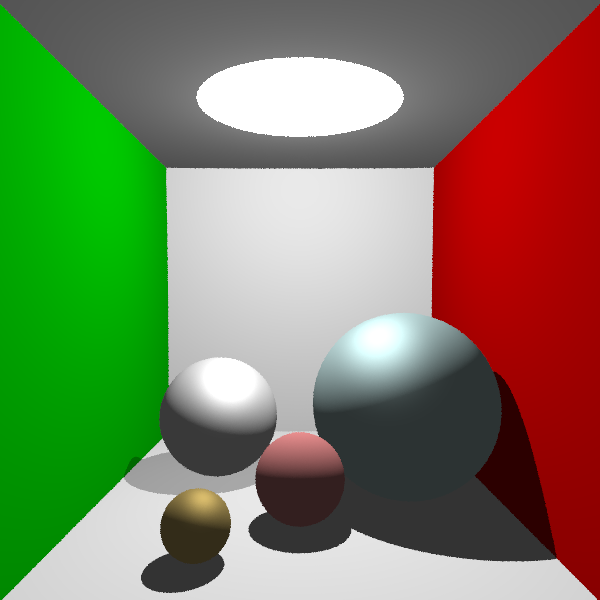
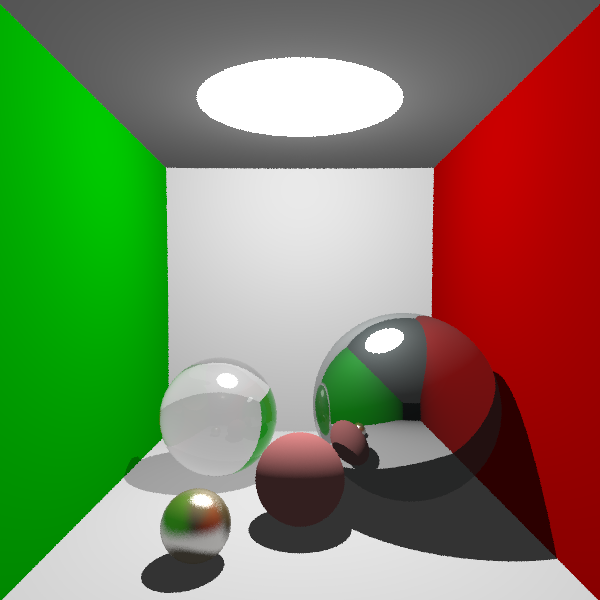
add(ray_tracing)

Changed region(s): [[0.51, 0.51, 0.84, 0.81], [0.24, 0.57, 0.48, 0.93]]

diff --git a/src/sence.py b/src/sence.py
@@ -8,7 +8,7 @@ from src.camera import *
 from src.geometry import Primitive
 from src.lights import Light
 from src.materials import *
-from src.utils import normalize
+from src.utils import *
 
 
 class Sence:
@@ -38,7 +38,7 @@ class Sence:
             u = (i + np.random.random()) / self.canvas.width
             v = (j + np.random.random()) / self.canvas.height
             ray = self.viewport.get_ray(u, v)
-            color += self.ray_color(ray, max_depth)
+            color += ray_tracing(self, ray, max_depth)
         return (i, j), color
 
     def render_parallel(self, samples_per_pixel=4, max_depth=5, num_workers=4):
@@ -56,25 +56,6 @@ class Sence:
             # Set the pixel color on the canvas
             for (i, j), color in results:
                 self.canvas.set_pixel(i, j, color / samples_per_pixel)
-
-    def ray_color(self, ray: Ray, depth):
-        if depth <= 0:
-            return np.zeros(3)
-        hit_record = self.hit(ray)
-        if hit_record is None:
-            # if we hit nothing, return background color
-            return np.array([1.0, 1.0, 1.0])
-        ambient_color = hit_record.obj.material.color
-        ambient_weight = hit_record.obj.material.ambient
-        diffuse_color = lambertian_reflect(self.lights, hit_record)
-        diffuse_weight = hit_record.obj.material.diffuse
-        specular_color = specular_reflect(self.lights, ray, hit_record)
-        specular_weight = hit_record.obj.material.specular
-        reflection_color = (
-            diffuse_weight * diffuse_color + specular_weight * specular_color
-        )
-        shadow_weight = self.add_shadow(hit_record)
-        return reflection_color * shadow_weight + ambient_color * ambient_weight
 
     def hit(self, ray: Ray):
         hit_record = None
@@ -132,6 +113,91 @@ def specular_reflect(lights, cam_ray, hit_record):
     return default_color
 
 
+def blinn_phong_shading(sence, cam_ray, hit_record):
+    lights = sence.lights
+    ambient_color = hit_record.obj.material.color
+    ambient_weight = hit_record.obj.material.ambient
+    diffuse_color = lambertian_reflect(lights, hit_record)
+    diffuse_weight = hit_record.obj.material.diffuse
+    specular_color = specular_reflect(lights, cam_ray, hit_record)
+    specular_weight = hit_record.obj.material.specular
+    reflection_color = diffuse_weight * diffuse_color + specular_weight * specular_color
+    shadow_weight = sence.add_shadow(hit_record)
+    local_color = reflection_color * shadow_weight + ambient_color * ambient_weight
+    return local_color
+
+
+def ray_tracing(sence, cam_ray, depth):
+    if depth <= 0:
+        return BLACK_COLOR
+    hit_record = sence.hit(cam_ray)
+    if hit_record is None:
+        return BLACK_COLOR
+    obj = hit_record.obj
+    attenuation = obj.material.attenuation
+    if isinstance(obj.material, LightMaterial):
+        return obj.material.color
+    local_color = blinn_phong_shading(sence, cam_ray, hit_record)
+    if isinstance(obj.material, MetalMaterial):
+        reflect_color = mirror_reflect(sence, cam_ray, hit_record, depth)
+        return local_color * 0.1 + attenuation * reflect_color
+    elif isinstance(obj.material, FuzzyMaterial):
+        reflect_color = fuzz_metal_reflect(sence, cam_ray, hit_record, depth)
+        return local_color * 0.5 + attenuation * reflect_color
+    elif isinstance(obj.material, GlassMaterial):
+        reflect_color = glass_reflect(sence, cam_ray, hit_record, depth)
+        return local_color * 0.1 + attenuation * reflect_color
+    else:
+        return local_color
+
+
+def mirror_reflect(sence, cam_ray, hit_record, depth):
+    reflect_dir = reflect(cam_ray.direction, hit_record.normal)
+    reflect_ray = Ray(hit_record.point, reflect_dir)
+    return ray_tracing(sence, reflect_ray, depth - 1)
+
+
+def fuzz_metal_reflect(sence, cam_ray, hit_record, depth):
+    fuzz = 0.4
+    reflect_dir = reflect(cam_ray.direction, hit_record.normal)
+    # repeat N times to get a more smooth result
+    cache_color = np.array([0.0, 0.0, 0.0])
+    N = 20
+    for _ in range(N):
+        scatter_dir = normalize(reflect_dir + fuzz * random_in_unit_sphere())
+        if np.dot(scatter_dir, hit_record.normal) < 0:
+            continue
+        reflect_ray = Ray(hit_record.point, scatter_dir)
+        cache_color += ray_tracing(sence, reflect_ray, depth - 1)
+    return cache_color / N
+
+
+def glass_reflect(sence, cam_ray, hit_record, depth):
+    if depth <= 0:
+        return np.zeros(3)
+    n_air, n_glass = 1.0, 1.5
+    # relative refractive index, n_out / n_in
+    ref_idx = n_glass / n_air
+    normal = hit_record.normal
+    if not hit_record.front_face:
+        ref_idx = 1 / ref_idx
+        normal = -1 * normal
+    cos_theta = min(np.dot(-cam_ray.direction, normal), 1.0)
+    sin_theta = np.sqrt(1 - cos_theta**2)
+    # Check total internal reflection
+    cannot_refract = 1 / ref_idx * sin_theta > 1.0
+    reflect_ratio = reflectance(cos_theta, ref_idx)
+    reflect_dir = reflect(cam_ray.direction, normal)
+    reflect_ray = Ray(hit_record.point, reflect_dir)
+    reflect_color = ray_tracing(sence, reflect_ray, depth - 1)
+    if cannot_refract:
+        return reflect_color
+    refract_dir = refract(cam_ray.direction, normal, ref_idx)
+    refract_ray = Ray(hit_record.point, refract_dir)
+    refract_color = ray_tracing(sence, refract_ray, depth - 1)
+    return reflect_color * reflect_ratio + refract_color * (1 - reflect_ratio)
+
+
 class HitEvent:
     def __init__(self, obj, ray):
         hit_point = obj.hit(ray)
@@ -142,3 +208,5 @@ class HitEvent:
         self.point = hit_point
         self.obj = obj
         self.distance = np.linalg.norm(hit_point - ray.origin)
+        self.normal = obj.get_normal(hit_point)
+        self.front_face = bool(np.dot(self.normal, ray.direction) < 0)

diff --git a/main.py b/main.py
@@ -11,7 +11,7 @@ if __name__ == "__main__":
     sence1 = Sence(camera=camera1, objects=objects1, lights=lights1, canvas=canvas1)
     t1 = time.time()
     # sence1.render(samples_per_pixel=4, max_depth=1)
-    sence1.render_parallel(samples_per_pixel=4, max_depth=1, num_workers=7)
+    sence1.render_parallel(samples_per_pixel=4, max_depth=10, num_workers=7)
     t2 = time.time()
     canvas1.regular()
     print(f"Render time: {t2-t1}")
